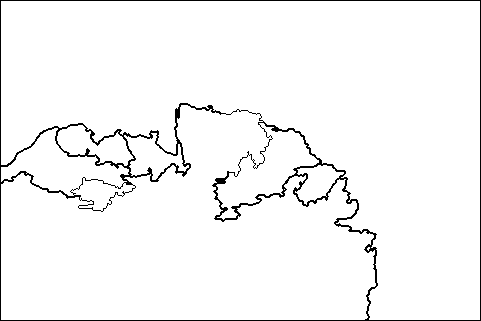
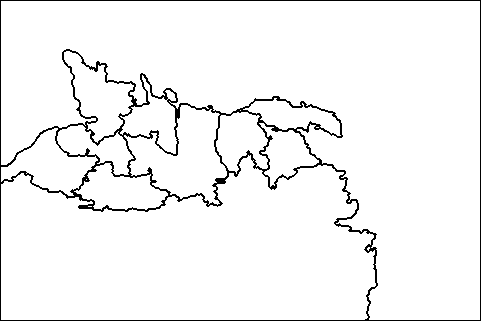
tested something

diff --git a/MOEA/Segmentation_Evaluation/run.py b/MOEA/Segmentation_Evaluation/run.py
@@ -4,12 +4,12 @@ from fileReader import readTextFile
 
 #optimalFolder = "Optimal_Segmentation_Files" # you may have to specify the complete path
 #studentFolder = "Student_Segmentation_Files" # you may have to specify the complete path
-optimalFolder = "86016" # you may have to specify the complete path
-studentFolder = "86016_student" # you may have to specify the complete path
-#optimalFolder = "147091" # you may have to specify the complete path
-#studentFolder = "147091_student" # you may have to specify the complete path
-#optimalFolder = "160068" # you may have to specify the complete path
-#studentFolder = "160068_student" # you may have to specify the complete path
+#optimalFolder = "86016" # circle
+#studentFolder = "86016_student" 
+#optimalFolder = "147091" # three
+#studentFolder = "147091_student" 
+optimalFolder = "160068" # tiger
+studentFolder = "160068_student" 
 #optimalFolder = "176035" # you may have to specify the complete path
 #studentFolder = "176035_student" # you may have to specify the complete path
 #optimalFolder = "178054" # you may have to specify the complete path

diff --git a/MOEA/MOEA/population.cpp b/MOEA/MOEA/population.cpp
@@ -217,12 +217,14 @@ void Population::initialize_individual_PrimsMST(int ind_index){
 
 void Population::initialize_population() {
 	
-	for (int i = 0; i < 1;i++) {
+	for (int i = 0; i < 2;i++) {
 		this->initialize_individual_PrimsMST(i);
 		fitness_1.push_back(std::make_pair(0.0, i));
 		fitness_2.push_back(std::make_pair(0.0, i));
 		rank.push_back(std::make_pair(0, i));
 		draw_segments_contour(i, i);
+		cv::Mat im = draw_segments_black_contour(i);
+		write_image_to_file(i, im);
 	}
 	/*int init_index = 0;
 	for (int i = N_IND; i < N_IND+N_OFFSPRING; i++) {
